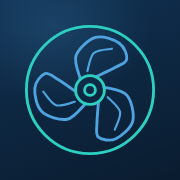
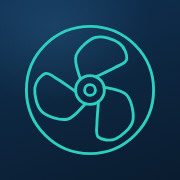
Add files via upload

diff --git a/index.html b/index.html
@@ -487,25 +487,65 @@ footer{background:linear-gradient(180deg,transparent 0,var(--g-bg2) 22px)!import
 @media (prefers-color-scheme:dark){:root:not([data-theme="light"]) .ppwait{background:radial-gradient(70vmax 55vmax at 50% 0%,rgba(79,163,223,.16),transparent 60%),#0E1A26}:root:not([data-theme="light"]) .pw-msg{color:#9DB6C6}}
 :root[data-theme="dark"] .ppwait{background:radial-gradient(70vmax 55vmax at 50% 0%,rgba(79,163,223,.16),transparent 60%),#0E1A26}
 :root[data-theme="dark"] .pw-msg{color:#9DB6C6}
+
+/* ---------- welcome popup (clear, easy to read) ---------- */
+.intro .in2{width:min(420px,100%)!important;padding:26px 22px 20px!important;text-align:center;color:#132232!important;
+  background:linear-gradient(180deg,#FFFFFF,#F3F8FB)!important;border:1px solid rgba(255,255,255,.9);box-shadow:0 30px 70px -20px rgba(0,20,40,.55)!important}
+.in2 .in-prop{width:104px;height:104px;margin:0 auto}
+.in2 .in-prop svg{width:100%;height:100%}
+.in2 .in-prop .pp-rot{transform-box:view-box;transform-origin:50% 50%;animation:ppSpin 2.4s cubic-bezier(.12,.75,.25,1) both}
+.intro:not(.on) .in2 .in-prop .pp-rot{animation:none}
+.in2 h1{margin:12px 0 0!important;font:700 34px/1.05 var(--f-ui)!important;color:#132232}
+.in2 h1 span{color:#006597!important}
+.in2 p{margin:6px 0 0!important;color:#4A6577!important;font-size:15.5px!important}
+.in-list{list-style:none;margin:18px 0 0;padding:0;display:grid;gap:8px;text-align:left}
+.in-list li{display:flex;align-items:center;gap:12px;padding:11px 12px;border-radius:16px;background:#fff;border:1px solid #E1EAF0;box-shadow:0 4px 12px -8px rgba(0,40,80,.25)}
+.in-n{flex:none;width:42px;height:42px;border-radius:13px;display:grid;place-items:center;color:#fff;background:linear-gradient(150deg,#2CCFC0,#1C7DC2)}
+.in-list b{display:block;font:700 15.5px var(--f-ui);color:#132232}
+.in-list small{display:block;margin-top:1px;font-size:13px;line-height:1.3;color:#5E7787}
+.in2 .in-go{margin-top:18px!important;height:54px!important;font-size:17px!important}
+@media (prefers-color-scheme:dark){:root:not([data-theme="light"]) .intro .in2{color:#E9EFF1!important;background:linear-gradient(180deg,#14283B,#0E1C2A)!important;border-color:rgba(255,255,255,.08)}
+  :root:not([data-theme="light"]) .in2 h1{color:#E9EFF1}:root:not([data-theme="light"]) .in2 h1 span{color:#4FA3DF!important}:root:not([data-theme="light"]) .in2 p{color:#9DB6C6!important}
+  :root:not([data-theme="light"]) .in-list li{background:rgba(255,255,255,.05);border-color:rgba(255,255,255,.08)}:root:not([data-theme="light"]) .in-list b{color:#E9EFF1}:root:not([data-theme="light"]) .in-list small{color:#9DB6C6}}
+:root[data-theme="dark"] .intro .in2{color:#E9EFF1!important;background:linear-gradient(180deg,#14283B,#0E1C2A)!important;border-color:rgba(255,255,255,.08)}
+:root[data-theme="dark"] .in2 h1{color:#E9EFF1}:root[data-theme="dark"] .in2 h1 span{color:#4FA3DF!important}:root[data-theme="dark"] .in2 p{color:#9DB6C6!important}
+:root[data-theme="dark"] .in-list li{background:rgba(255,255,255,.05);border-color:rgba(255,255,255,.08)}:root[data-theme="dark"] .in-list b{color:#E9EFF1}:root[data-theme="dark"] .in-list small{color:#9DB6C6}
+
+/* welcome popup: more compact on phones */
+@media (max-width:640px){
+  .intro .in2{width:min(360px,100%)!important;padding:18px 16px 16px!important;border-radius:22px!important}
+  .in2 .in-prop{width:72px;height:72px}
+  .in2 h1{margin-top:8px!important;font-size:26px!important}
+  .in2 p{font-size:13.5px!important;margin-top:4px!important}
+  .in-list{margin-top:12px;gap:6px}
+  .in-list li{padding:8px 10px;gap:10px;border-radius:13px}
+  .in-n{width:34px;height:34px;border-radius:10px}
+  .in-n svg{width:18px;height:18px}
+  .in-list b{font-size:14px}
+  .in-list small{font-size:12px}
+  .in2 .in-go{margin-top:14px!important;height:46px!important;font-size:16px!important;border-radius:13px!important}
+}
+
+.mb-ic svg,.sp-icon svg{color:#2CCFC0!important}
 </style>
 
 <div class="splash" id="splash" aria-hidden="true">
   <div class="sp-in">
-    <div class="sp-icon"><svg xmlns="http://www.w3.org/2000/svg" viewBox="0 0 120 120" fill="none" stroke="#006597" stroke-width="2.4" stroke-linecap="round" stroke-linejoin="round"><g class="pp-rot"><g transform="rotate(0 60 60)"><path d="M52.0 51.1C51.4 47.8 46.3 37.1 48.4 31.3C50.5 25.5 58.6 18.0 64.6 16.2C70.6 14.5 80.0 18.0 84.4 21.0C88.7 24.0 91.2 30.9 90.6 34.3C90.0 37.7 85.1 38.8 80.8 41.3C76.5 43.7 67.5 47.7 64.9 49.0"/><path d="M57.8 44.2C58.7 41.7 59.8 32.3 63.2 29.2C66.7 26.1 75.8 26.2 78.3 25.6" stroke-width="1.8"/></g><g transform="rotate(120 60 60)"><path d="M52.0 51.1C51.4 47.8 46.3 37.1 48.4 31.3C50.5 25.5 58.6 18.0 64.6 16.2C70.6 14.5 80.0 18.0 84.4 21.0C88.7 24.0 91.2 30.9 90.6 34.3C90.0 37.7 85.1 38.8 80.8 41.3C76.5 43.7 67.5 47.7 64.9 49.0"/><path d="M57.8 44.2C58.7 41.7 59.8 32.3 63.2 29.2C66.7 26.1 75.8 26.2 78.3 25.6" stroke-width="1.8"/></g><g transform="rotate(240 60 60)"><path d="M52.0 51.1C51.4 47.8 46.3 37.1 48.4 31.3C50.5 25.5 58.6 18.0 64.6 16.2C70.6 14.5 80.0 18.0 84.4 21.0C88.7 24.0 91.2 30.9 90.6 34.3C90.0 37.7 85.1 38.8 80.8 41.3C76.5 43.7 67.5 47.7 64.9 49.0"/><path d="M57.8 44.2C58.7 41.7 59.8 32.3 63.2 29.2C66.7 26.1 75.8 26.2 78.3 25.6" stroke-width="1.8"/></g> <circle cx="60" cy="60" r="12" stroke="#2CCFC0"/> <circle cx="60" cy="60" r="4.5" stroke="#2CCFC0"/></g><circle cx="60" cy="60" r="53" stroke="#2CCFC0"/></svg></div>
+    <div class="sp-icon"><svg xmlns="http://www.w3.org/2000/svg" viewBox="0 0 120 120" fill="none" stroke="#2CCFC0" stroke-width="2.4" stroke-linecap="round" stroke-linejoin="round"><g class="pp-rot"><g transform="rotate(0 60 60)"><path d="M52.0 51.1C51.4 47.8 46.3 37.1 48.4 31.3C50.5 25.5 58.6 18.0 64.6 16.2C70.6 14.5 80.0 18.0 84.4 21.0C88.7 24.0 91.2 30.9 90.6 34.3C90.0 37.7 85.1 38.8 80.8 41.3C76.5 43.7 67.5 47.7 64.9 49.0"/></g><g transform="rotate(120 60 60)"><path d="M52.0 51.1C51.4 47.8 46.3 37.1 48.4 31.3C50.5 25.5 58.6 18.0 64.6 16.2C70.6 14.5 80.0 18.0 84.4 21.0C88.7 24.0 91.2 30.9 90.6 34.3C90.0 37.7 85.1 38.8 80.8 41.3C76.5 43.7 67.5 47.7 64.9 49.0"/></g><g transform="rotate(240 60 60)"><path d="M52.0 51.1C51.4 47.8 46.3 37.1 48.4 31.3C50.5 25.5 58.6 18.0 64.6 16.2C70.6 14.5 80.0 18.0 84.4 21.0C88.7 24.0 91.2 30.9 90.6 34.3C90.0 37.7 85.1 38.8 80.8 41.3C76.5 43.7 67.5 47.7 64.9 49.0"/></g> <circle cx="60" cy="60" r="12" stroke="#2CCFC0"/> <circle cx="60" cy="60" r="4.5" stroke="#2CCFC0"/></g><circle cx="60" cy="60" r="53" stroke="#2CCFC0"/></svg></div>
     <h1 class="sp-title">Parts <span>Picker</span></h1>
     <div class="sp-by">powered by</div>
     <img class="sp-logo" src="marinics.png" alt="Marinics">
   </div>
 </div>
 <div class="ppwait" id="ppwait" hidden aria-live="polite">
-  <div class="pw-prop" aria-hidden="true"><svg xmlns="http://www.w3.org/2000/svg" viewBox="0 0 120 120" fill="none" stroke="#006597" stroke-width="2.4" stroke-linecap="round" stroke-linejoin="round"><g class="pp-rot"><g transform="rotate(0 60 60)"><path d="M52.0 51.1C51.4 47.8 46.3 37.1 48.4 31.3C50.5 25.5 58.6 18.0 64.6 16.2C70.6 14.5 80.0 18.0 84.4 21.0C88.7 24.0 91.2 30.9 90.6 34.3C90.0 37.7 85.1 38.8 80.8 41.3C76.5 43.7 67.5 47.7 64.9 49.0"/><path d="M57.8 44.2C58.7 41.7 59.8 32.3 63.2 29.2C66.7 26.1 75.8 26.2 78.3 25.6" stroke-width="1.8"/></g><g transform="rotate(120 60 60)"><path d="M52.0 51.1C51.4 47.8 46.3 37.1 48.4 31.3C50.5 25.5 58.6 18.0 64.6 16.2C70.6 14.5 80.0 18.0 84.4 21.0C88.7 24.0 91.2 30.9 90.6 34.3C90.0 37.7 85.1 38.8 80.8 41.3C76.5 43.7 67.5 47.7 64.9 49.0"/><path d="M57.8 44.2C58.7 41.7 59.8 32.3 63.2 29.2C66.7 26.1 75.8 26.2 78.3 25.6" stroke-width="1.8"/></g><g transform="rotate(240 60 60)"><path d="M52.0 51.1C51.4 47.8 46.3 37.1 48.4 31.3C50.5 25.5 58.6 18.0 64.6 16.2C70.6 14.5 80.0 18.0 84.4 21.0C88.7 24.0 91.2 30.9 90.6 34.3C90.0 37.7 85.1 38.8 80.8 41.3C76.5 43.7 67.5 47.7 64.9 49.0"/><path d="M57.8 44.2C58.7 41.7 59.8 32.3 63.2 29.2C66.7 26.1 75.8 26.2 78.3 25.6" stroke-width="1.8"/></g> <circle cx="60" cy="60" r="12" stroke="#2CCFC0"/> <circle cx="60" cy="60" r="4.5" stroke="#2CCFC0"/></g><circle cx="60" cy="60" r="53" stroke="#2CCFC0"/></svg></div>
+  <div class="pw-prop" aria-hidden="true"><svg xmlns="http://www.w3.org/2000/svg" viewBox="0 0 120 120" fill="none" stroke="#2CCFC0" stroke-width="2.4" stroke-linecap="round" stroke-linejoin="round"><g class="pp-rot"><g transform="rotate(0 60 60)"><path d="M52.0 51.1C51.4 47.8 46.3 37.1 48.4 31.3C50.5 25.5 58.6 18.0 64.6 16.2C70.6 14.5 80.0 18.0 84.4 21.0C88.7 24.0 91.2 30.9 90.6 34.3C90.0 37.7 85.1 38.8 80.8 41.3C76.5 43.7 67.5 47.7 64.9 49.0"/></g><g transform="rotate(120 60 60)"><path d="M52.0 51.1C51.4 47.8 46.3 37.1 48.4 31.3C50.5 25.5 58.6 18.0 64.6 16.2C70.6 14.5 80.0 18.0 84.4 21.0C88.7 24.0 91.2 30.9 90.6 34.3C90.0 37.7 85.1 38.8 80.8 41.3C76.5 43.7 67.5 47.7 64.9 49.0"/></g><g transform="rotate(240 60 60)"><path d="M52.0 51.1C51.4 47.8 46.3 37.1 48.4 31.3C50.5 25.5 58.6 18.0 64.6 16.2C70.6 14.5 80.0 18.0 84.4 21.0C88.7 24.0 91.2 30.9 90.6 34.3C90.0 37.7 85.1 38.8 80.8 41.3C76.5 43.7 67.5 47.7 64.9 49.0"/></g> <circle cx="60" cy="60" r="12" stroke="#2CCFC0"/> <circle cx="60" cy="60" r="4.5" stroke="#2CCFC0"/></g><circle cx="60" cy="60" r="53" stroke="#2CCFC0"/></svg></div>
   <div class="pw-msg" id="pw-msg">Loading your engines…</div>
   <div class="pw-by"><span>powered by</span><img src="marinics.png" alt="Marinics"></div>
 </div>
 <!--LOGIN-->
 <section class="signin" id="signin" hidden aria-label="Sign in">
   <div class="si-card">
-    <div class="si-prop" aria-hidden="true"><svg xmlns="http://www.w3.org/2000/svg" viewBox="0 0 120 120" fill="none" stroke="#006597" stroke-width="2.4" stroke-linecap="round" stroke-linejoin="round"><g class="pp-rot"><g transform="rotate(0 60 60)"><path d="M52.0 51.1C51.4 47.8 46.3 37.1 48.4 31.3C50.5 25.5 58.6 18.0 64.6 16.2C70.6 14.5 80.0 18.0 84.4 21.0C88.7 24.0 91.2 30.9 90.6 34.3C90.0 37.7 85.1 38.8 80.8 41.3C76.5 43.7 67.5 47.7 64.9 49.0"/><path d="M57.8 44.2C58.7 41.7 59.8 32.3 63.2 29.2C66.7 26.1 75.8 26.2 78.3 25.6" stroke-width="1.8"/></g><g transform="rotate(120 60 60)"><path d="M52.0 51.1C51.4 47.8 46.3 37.1 48.4 31.3C50.5 25.5 58.6 18.0 64.6 16.2C70.6 14.5 80.0 18.0 84.4 21.0C88.7 24.0 91.2 30.9 90.6 34.3C90.0 37.7 85.1 38.8 80.8 41.3C76.5 43.7 67.5 47.7 64.9 49.0"/><path d="M57.8 44.2C58.7 41.7 59.8 32.3 63.2 29.2C66.7 26.1 75.8 26.2 78.3 25.6" stroke-width="1.8"/></g><g transform="rotate(240 60 60)"><path d="M52.0 51.1C51.4 47.8 46.3 37.1 48.4 31.3C50.5 25.5 58.6 18.0 64.6 16.2C70.6 14.5 80.0 18.0 84.4 21.0C88.7 24.0 91.2 30.9 90.6 34.3C90.0 37.7 85.1 38.8 80.8 41.3C76.5 43.7 67.5 47.7 64.9 49.0"/><path d="M57.8 44.2C58.7 41.7 59.8 32.3 63.2 29.2C66.7 26.1 75.8 26.2 78.3 25.6" stroke-width="1.8"/></g> <circle cx="60" cy="60" r="12" stroke="#2CCFC0"/> <circle cx="60" cy="60" r="4.5" stroke="#2CCFC0"/></g><circle cx="60" cy="60" r="53" stroke="#2CCFC0"/></svg></div>
+    <div class="si-prop" aria-hidden="true"><svg xmlns="http://www.w3.org/2000/svg" viewBox="0 0 120 120" fill="none" stroke="#2CCFC0" stroke-width="2.4" stroke-linecap="round" stroke-linejoin="round"><g class="pp-rot"><g transform="rotate(0 60 60)"><path d="M52.0 51.1C51.4 47.8 46.3 37.1 48.4 31.3C50.5 25.5 58.6 18.0 64.6 16.2C70.6 14.5 80.0 18.0 84.4 21.0C88.7 24.0 91.2 30.9 90.6 34.3C90.0 37.7 85.1 38.8 80.8 41.3C76.5 43.7 67.5 47.7 64.9 49.0"/></g><g transform="rotate(120 60 60)"><path d="M52.0 51.1C51.4 47.8 46.3 37.1 48.4 31.3C50.5 25.5 58.6 18.0 64.6 16.2C70.6 14.5 80.0 18.0 84.4 21.0C88.7 24.0 91.2 30.9 90.6 34.3C90.0 37.7 85.1 38.8 80.8 41.3C76.5 43.7 67.5 47.7 64.9 49.0"/></g><g transform="rotate(240 60 60)"><path d="M52.0 51.1C51.4 47.8 46.3 37.1 48.4 31.3C50.5 25.5 58.6 18.0 64.6 16.2C70.6 14.5 80.0 18.0 84.4 21.0C88.7 24.0 91.2 30.9 90.6 34.3C90.0 37.7 85.1 38.8 80.8 41.3C76.5 43.7 67.5 47.7 64.9 49.0"/></g> <circle cx="60" cy="60" r="12" stroke="#2CCFC0"/> <circle cx="60" cy="60" r="4.5" stroke="#2CCFC0"/></g><circle cx="60" cy="60" r="53" stroke="#2CCFC0"/></svg></div>
     <h2>Parts <span>Picker</span></h2>
     <p class="si-sub">Sign in to continue</p>
     <div class="si-setup" id="si-setup" hidden>Sign-in isn't connected yet. Add your Firebase keys to <code>firebase-config.js</code>, following the README.</div>
@@ -530,7 +570,7 @@ footer{background:linear-gradient(180deg,transparent 0,var(--g-bg2) 22px)!import
 </section>
 <!--/LOGIN-->
 <header class="mbar" id="mbar">
-  <a class="mb-home" id="mb-home" href="index.html" aria-label="Home: all brands"><span class="mb-ic"><svg xmlns="http://www.w3.org/2000/svg" viewBox="0 0 120 120" fill="none" stroke="currentColor" stroke-width="2.4" stroke-linecap="round" stroke-linejoin="round" style="color:var(--accent)"><g transform="rotate(0 60 60)"><path d="M52.0 51.1C51.4 47.8 46.3 37.1 48.4 31.3C50.5 25.5 58.6 18.0 64.6 16.2C70.6 14.5 80.0 18.0 84.4 21.0C88.7 24.0 91.2 30.9 90.6 34.3C90.0 37.7 85.1 38.8 80.8 41.3C76.5 43.7 67.5 47.7 64.9 49.0"/><path d="M57.8 44.2C58.7 41.7 59.8 32.3 63.2 29.2C66.7 26.1 75.8 26.2 78.3 25.6" stroke-width="1.8"/></g><g transform="rotate(120 60 60)"><path d="M52.0 51.1C51.4 47.8 46.3 37.1 48.4 31.3C50.5 25.5 58.6 18.0 64.6 16.2C70.6 14.5 80.0 18.0 84.4 21.0C88.7 24.0 91.2 30.9 90.6 34.3C90.0 37.7 85.1 38.8 80.8 41.3C76.5 43.7 67.5 47.7 64.9 49.0"/><path d="M57.8 44.2C58.7 41.7 59.8 32.3 63.2 29.2C66.7 26.1 75.8 26.2 78.3 25.6" stroke-width="1.8"/></g><g transform="rotate(240 60 60)"><path d="M52.0 51.1C51.4 47.8 46.3 37.1 48.4 31.3C50.5 25.5 58.6 18.0 64.6 16.2C70.6 14.5 80.0 18.0 84.4 21.0C88.7 24.0 91.2 30.9 90.6 34.3C90.0 37.7 85.1 38.8 80.8 41.3C76.5 43.7 67.5 47.7 64.9 49.0"/><path d="M57.8 44.2C58.7 41.7 59.8 32.3 63.2 29.2C66.7 26.1 75.8 26.2 78.3 25.6" stroke-width="1.8"/></g> <circle cx="60" cy="60" r="12" stroke="#2CCFC0"/> <circle cx="60" cy="60" r="4.5" stroke="#2CCFC0"/> <circle cx="60" cy="60" r="53" stroke="#2CCFC0"/></svg></span></a><div class="mb-t"><a class="mb-home" href="index.html" data-home><b>Parts <span>Picker</span></b></a><div class="subnote" id="subnote" hidden></div></div>
+  <a class="mb-home" id="mb-home" href="index.html" aria-label="Home: all brands"><span class="mb-ic"><svg xmlns="http://www.w3.org/2000/svg" viewBox="0 0 120 120" fill="none" stroke="currentColor" stroke-width="2.4" stroke-linecap="round" stroke-linejoin="round" style="color:#2CCFC0"><g transform="rotate(0 60 60)"><path d="M52.0 51.1C51.4 47.8 46.3 37.1 48.4 31.3C50.5 25.5 58.6 18.0 64.6 16.2C70.6 14.5 80.0 18.0 84.4 21.0C88.7 24.0 91.2 30.9 90.6 34.3C90.0 37.7 85.1 38.8 80.8 41.3C76.5 43.7 67.5 47.7 64.9 49.0"/></g><g transform="rotate(120 60 60)"><path d="M52.0 51.1C51.4 47.8 46.3 37.1 48.4 31.3C50.5 25.5 58.6 18.0 64.6 16.2C70.6 14.5 80.0 18.0 84.4 21.0C88.7 24.0 91.2 30.9 90.6 34.3C90.0 37.7 85.1 38.8 80.8 41.3C76.5 43.7 67.5 47.7 64.9 49.0"/></g><g transform="rotate(240 60 60)"><path d="M52.0 51.1C51.4 47.8 46.3 37.1 48.4 31.3C50.5 25.5 58.6 18.0 64.6 16.2C70.6 14.5 80.0 18.0 84.4 21.0C88.7 24.0 91.2 30.9 90.6 34.3C90.0 37.7 85.1 38.8 80.8 41.3C76.5 43.7 67.5 47.7 64.9 49.0"/></g> <circle cx="60" cy="60" r="12" stroke="#2CCFC0"/> <circle cx="60" cy="60" r="4.5" stroke="#2CCFC0"/> <circle cx="60" cy="60" r="53" stroke="#2CCFC0"/></svg></span></a><div class="mb-t"><a class="mb-home" href="index.html" data-home><b>Parts <span>Picker</span></b></a><div class="subnote" id="subnote" hidden></div></div>
   <button class="mb-btn" id="mb-btn" type="button" aria-label="Menu" aria-expanded="false" aria-controls="mmenu"><svg width="22" height="22" viewBox="0 0 24 24" fill="none" stroke="currentColor" stroke-width="2.4" stroke-linecap="round"><path d="M4 7h16M4 12h16M4 17h16"/></svg></button>
   <div class="mmenu" id="mmenu" hidden>
     <div class="mm-who" id="mm-who"></div>
@@ -539,11 +579,15 @@ footer{background:linear-gradient(180deg,transparent 0,var(--g-bg2) 22px)!import
   </div>
 </header>
 <div class="intro" id="intro" hidden role="dialog" aria-label="Welcome">
-  <div class="in-card">
-    <div class="in-ic"><svg xmlns="http://www.w3.org/2000/svg" viewBox="0 0 120 120" fill="none" stroke="currentColor" stroke-width="2.4" stroke-linecap="round" stroke-linejoin="round" style="color:var(--accent)"><g transform="rotate(0 60 60)"><path d="M52.0 51.1C51.4 47.8 46.3 37.1 48.4 31.3C50.5 25.5 58.6 18.0 64.6 16.2C70.6 14.5 80.0 18.0 84.4 21.0C88.7 24.0 91.2 30.9 90.6 34.3C90.0 37.7 85.1 38.8 80.8 41.3C76.5 43.7 67.5 47.7 64.9 49.0"/><path d="M57.8 44.2C58.7 41.7 59.8 32.3 63.2 29.2C66.7 26.1 75.8 26.2 78.3 25.6" stroke-width="1.8"/></g><g transform="rotate(120 60 60)"><path d="M52.0 51.1C51.4 47.8 46.3 37.1 48.4 31.3C50.5 25.5 58.6 18.0 64.6 16.2C70.6 14.5 80.0 18.0 84.4 21.0C88.7 24.0 91.2 30.9 90.6 34.3C90.0 37.7 85.1 38.8 80.8 41.3C76.5 43.7 67.5 47.7 64.9 49.0"/><path d="M57.8 44.2C58.7 41.7 59.8 32.3 63.2 29.2C66.7 26.1 75.8 26.2 78.3 25.6" stroke-width="1.8"/></g><g transform="rotate(240 60 60)"><path d="M52.0 51.1C51.4 47.8 46.3 37.1 48.4 31.3C50.5 25.5 58.6 18.0 64.6 16.2C70.6 14.5 80.0 18.0 84.4 21.0C88.7 24.0 91.2 30.9 90.6 34.3C90.0 37.7 85.1 38.8 80.8 41.3C76.5 43.7 67.5 47.7 64.9 49.0"/><path d="M57.8 44.2C58.7 41.7 59.8 32.3 63.2 29.2C66.7 26.1 75.8 26.2 78.3 25.6" stroke-width="1.8"/></g> <circle cx="60" cy="60" r="12" stroke="#2CCFC0"/> <circle cx="60" cy="60" r="4.5" stroke="#2CCFC0"/> <circle cx="60" cy="60" r="53" stroke="#2CCFC0"/></svg></div>
+  <div class="in-card in2">
+    <div class="in-prop" aria-hidden="true"><svg xmlns="http://www.w3.org/2000/svg" viewBox="0 0 120 120" fill="none" stroke="#2CCFC0" stroke-width="2.4" stroke-linecap="round" stroke-linejoin="round"><g class="pp-rot"><g transform="rotate(0 60 60)"><path d="M52.0 51.1C51.4 47.8 46.3 37.1 48.4 31.3C50.5 25.5 58.6 18.0 64.6 16.2C70.6 14.5 80.0 18.0 84.4 21.0C88.7 24.0 91.2 30.9 90.6 34.3C90.0 37.7 85.1 38.8 80.8 41.3C76.5 43.7 67.5 47.7 64.9 49.0"/></g><g transform="rotate(120 60 60)"><path d="M52.0 51.1C51.4 47.8 46.3 37.1 48.4 31.3C50.5 25.5 58.6 18.0 64.6 16.2C70.6 14.5 80.0 18.0 84.4 21.0C88.7 24.0 91.2 30.9 90.6 34.3C90.0 37.7 85.1 38.8 80.8 41.3C76.5 43.7 67.5 47.7 64.9 49.0"/></g><g transform="rotate(240 60 60)"><path d="M52.0 51.1C51.4 47.8 46.3 37.1 48.4 31.3C50.5 25.5 58.6 18.0 64.6 16.2C70.6 14.5 80.0 18.0 84.4 21.0C88.7 24.0 91.2 30.9 90.6 34.3C90.0 37.7 85.1 38.8 80.8 41.3C76.5 43.7 67.5 47.7 64.9 49.0"/></g> <circle cx="60" cy="60" r="12" stroke="#2CCFC0"/> <circle cx="60" cy="60" r="4.5" stroke="#2CCFC0"/></g><circle cx="60" cy="60" r="53" stroke="#2CCFC0"/></svg></div>
     <h1>Parts <span>Picker</span></h1>
-    <p>Pick parts straight from the exploded drawings. Tap a number, set the quantity, and download your list as an image or Excel file.</p>
-    <div class="in-steps"><span><i>1</i>Choose engine</span><span><i>2</i>Tap numbers</span><span><i>3</i>Download list</span></div>
+    <p>Pick parts straight from the exploded drawings.</p>
+    <ol class="in-list">
+      <li><span class="in-n"><svg width="22" height="22" viewBox="0 0 24 24" fill="none" stroke="currentColor" stroke-width="2.2" stroke-linecap="round" stroke-linejoin="round"><path d="M4 7h16M4 12h16M4 17h10"/></svg></span><span><b>Choose an engine</b><small>Open a brand, then the HP folder and model</small></span></li>
+      <li><span class="in-n"><svg width="22" height="22" viewBox="0 0 24 24" fill="none" stroke="currentColor" stroke-width="2.2" stroke-linecap="round" stroke-linejoin="round"><circle cx="12" cy="12" r="8"/><path d="M12 8v8M8 12h8"/></svg></span><span><b>Tap the numbers</b><small>Each circled number adds that part to your list</small></span></li>
+      <li><span class="in-n"><svg width="22" height="22" viewBox="0 0 24 24" fill="none" stroke="currentColor" stroke-width="2.2" stroke-linecap="round" stroke-linejoin="round"><path d="M12 4v11M7 10l5 5 5-5M5 20h14"/></svg></span><span><b>Download your list</b><small>Save it as an image or an Excel file</small></span></li>
+    </ol>
     <button class="in-go" id="in-go" type="button">Continue <svg width="18" height="18" viewBox="0 0 24 24" fill="none" stroke="currentColor" stroke-width="2.4" stroke-linecap="round" stroke-linejoin="round"><path d="M5 12h14M13 6l6 6-6 6"/></svg></button>
   </div>
 </div>
@@ -560,7 +604,7 @@ footer{background:linear-gradient(180deg,transparent 0,var(--g-bg2) 22px)!import
 <header class="hero">
   <!--USERBAR--><div class="userbar" id="userbar" hidden><span id="useremail"></span><button id="ub-set" type="button" onclick="openSettings()">Settings</button><button id="signout" type="button">Sign out</button></div><!--/USERBAR-->
   <div class="wrap">
-    <div class="logo" aria-hidden="true"><svg xmlns="http://www.w3.org/2000/svg" viewBox="0 0 120 120" fill="none" stroke="currentColor" stroke-width="2.4" stroke-linecap="round" stroke-linejoin="round" style="color:var(--accent)"><g transform="rotate(0 60 60)"><path class="draw" d="M52.0 51.1C51.4 47.8 46.3 37.1 48.4 31.3C50.5 25.5 58.6 18.0 64.6 16.2C70.6 14.5 80.0 18.0 84.4 21.0C88.7 24.0 91.2 30.9 90.6 34.3C90.0 37.7 85.1 38.8 80.8 41.3C76.5 43.7 67.5 47.7 64.9 49.0"/><path class="draw" d="M57.8 44.2C58.7 41.7 59.8 32.3 63.2 29.2C66.7 26.1 75.8 26.2 78.3 25.6" stroke-width="1.8"/></g><g transform="rotate(120 60 60)"><path class="draw" d="M52.0 51.1C51.4 47.8 46.3 37.1 48.4 31.3C50.5 25.5 58.6 18.0 64.6 16.2C70.6 14.5 80.0 18.0 84.4 21.0C88.7 24.0 91.2 30.9 90.6 34.3C90.0 37.7 85.1 38.8 80.8 41.3C76.5 43.7 67.5 47.7 64.9 49.0"/><path class="draw" d="M57.8 44.2C58.7 41.7 59.8 32.3 63.2 29.2C66.7 26.1 75.8 26.2 78.3 25.6" stroke-width="1.8"/></g><g transform="rotate(240 60 60)"><path class="draw" d="M52.0 51.1C51.4 47.8 46.3 37.1 48.4 31.3C50.5 25.5 58.6 18.0 64.6 16.2C70.6 14.5 80.0 18.0 84.4 21.0C88.7 24.0 91.2 30.9 90.6 34.3C90.0 37.7 85.1 38.8 80.8 41.3C76.5 43.7 67.5 47.7 64.9 49.0"/><path class="draw" d="M57.8 44.2C58.7 41.7 59.8 32.3 63.2 29.2C66.7 26.1 75.8 26.2 78.3 25.6" stroke-width="1.8"/></g> <circle class="draw" cx="60" cy="60" r="12" stroke="#2CCFC0"/> <circle class="draw" cx="60" cy="60" r="4.5" stroke="#2CCFC0"/> <circle class="draw" cx="60" cy="60" r="53" stroke="#2CCFC0"/></svg></div>
+    <div class="logo" aria-hidden="true"><svg xmlns="http://www.w3.org/2000/svg" viewBox="0 0 120 120" fill="none" stroke="currentColor" stroke-width="2.4" stroke-linecap="round" stroke-linejoin="round" style="color:#2CCFC0"><g transform="rotate(0 60 60)"><path class="draw" d="M52.0 51.1C51.4 47.8 46.3 37.1 48.4 31.3C50.5 25.5 58.6 18.0 64.6 16.2C70.6 14.5 80.0 18.0 84.4 21.0C88.7 24.0 91.2 30.9 90.6 34.3C90.0 37.7 85.1 38.8 80.8 41.3C76.5 43.7 67.5 47.7 64.9 49.0"/></g><g transform="rotate(120 60 60)"><path class="draw" d="M52.0 51.1C51.4 47.8 46.3 37.1 48.4 31.3C50.5 25.5 58.6 18.0 64.6 16.2C70.6 14.5 80.0 18.0 84.4 21.0C88.7 24.0 91.2 30.9 90.6 34.3C90.0 37.7 85.1 38.8 80.8 41.3C76.5 43.7 67.5 47.7 64.9 49.0"/></g><g transform="rotate(240 60 60)"><path class="draw" d="M52.0 51.1C51.4 47.8 46.3 37.1 48.4 31.3C50.5 25.5 58.6 18.0 64.6 16.2C70.6 14.5 80.0 18.0 84.4 21.0C88.7 24.0 91.2 30.9 90.6 34.3C90.0 37.7 85.1 38.8 80.8 41.3C76.5 43.7 67.5 47.7 64.9 49.0"/></g> <circle class="draw" cx="60" cy="60" r="12" stroke="#2CCFC0"/> <circle class="draw" cx="60" cy="60" r="4.5" stroke="#2CCFC0"/> <circle class="draw" cx="60" cy="60" r="53" stroke="#2CCFC0"/></svg></div>
     <div>
       <h1>Parts <span>Picker</span></h1>
       <p>Pick parts straight from the exploded drawings. Tap a number, set the quantity, and download your list as an image or Excel file.</p>
@@ -584,7 +628,7 @@ const MODELS = [
   { id: 'f300det', hp: '300 HP · 2025', name: 'F300DET / FL300DET', codes: '6JD7 · 6JE7', catalog: '1Z6JD-200SA',
     figs: 53, parts: 1474, listKey: 'f300det-parts-list-v1', href: 'f300det/index.html' },
 ];
-const ICON = `<svg xmlns="http://www.w3.org/2000/svg" viewBox="0 0 120 120" fill="none" stroke="currentColor" stroke-width="2.4" stroke-linecap="round" stroke-linejoin="round" style="color:var(--accent)"><g transform="rotate(0 60 60)"><path d="M52.0 51.1C51.4 47.8 46.3 37.1 48.4 31.3C50.5 25.5 58.6 18.0 64.6 16.2C70.6 14.5 80.0 18.0 84.4 21.0C88.7 24.0 91.2 30.9 90.6 34.3C90.0 37.7 85.1 38.8 80.8 41.3C76.5 43.7 67.5 47.7 64.9 49.0"/><path d="M57.8 44.2C58.7 41.7 59.8 32.3 63.2 29.2C66.7 26.1 75.8 26.2 78.3 25.6" stroke-width="1.8"/></g><g transform="rotate(120 60 60)"><path d="M52.0 51.1C51.4 47.8 46.3 37.1 48.4 31.3C50.5 25.5 58.6 18.0 64.6 16.2C70.6 14.5 80.0 18.0 84.4 21.0C88.7 24.0 91.2 30.9 90.6 34.3C90.0 37.7 85.1 38.8 80.8 41.3C76.5 43.7 67.5 47.7 64.9 49.0"/><path d="M57.8 44.2C58.7 41.7 59.8 32.3 63.2 29.2C66.7 26.1 75.8 26.2 78.3 25.6" stroke-width="1.8"/></g><g transform="rotate(240 60 60)"><path d="M52.0 51.1C51.4 47.8 46.3 37.1 48.4 31.3C50.5 25.5 58.6 18.0 64.6 16.2C70.6 14.5 80.0 18.0 84.4 21.0C88.7 24.0 91.2 30.9 90.6 34.3C90.0 37.7 85.1 38.8 80.8 41.3C76.5 43.7 67.5 47.7 64.9 49.0"/><path d="M57.8 44.2C58.7 41.7 59.8 32.3 63.2 29.2C66.7 26.1 75.8 26.2 78.3 25.6" stroke-width="1.8"/></g> <circle cx="60" cy="60" r="12" stroke="#2CCFC0"/> <circle cx="60" cy="60" r="4.5" stroke="#2CCFC0"/> <circle cx="60" cy="60" r="53" stroke="#2CCFC0"/></svg>`;
+const ICON = `<svg xmlns="http://www.w3.org/2000/svg" viewBox="0 0 120 120" fill="none" stroke="currentColor" stroke-width="2.4" stroke-linecap="round" stroke-linejoin="round" style="color:#2CCFC0"><g transform="rotate(0 60 60)"><path d="M52.0 51.1C51.4 47.8 46.3 37.1 48.4 31.3C50.5 25.5 58.6 18.0 64.6 16.2C70.6 14.5 80.0 18.0 84.4 21.0C88.7 24.0 91.2 30.9 90.6 34.3C90.0 37.7 85.1 38.8 80.8 41.3C76.5 43.7 67.5 47.7 64.9 49.0"/></g><g transform="rotate(120 60 60)"><path d="M52.0 51.1C51.4 47.8 46.3 37.1 48.4 31.3C50.5 25.5 58.6 18.0 64.6 16.2C70.6 14.5 80.0 18.0 84.4 21.0C88.7 24.0 91.2 30.9 90.6 34.3C90.0 37.7 85.1 38.8 80.8 41.3C76.5 43.7 67.5 47.7 64.9 49.0"/></g><g transform="rotate(240 60 60)"><path d="M52.0 51.1C51.4 47.8 46.3 37.1 48.4 31.3C50.5 25.5 58.6 18.0 64.6 16.2C70.6 14.5 80.0 18.0 84.4 21.0C88.7 24.0 91.2 30.9 90.6 34.3C90.0 37.7 85.1 38.8 80.8 41.3C76.5 43.7 67.5 47.7 64.9 49.0"/></g> <circle cx="60" cy="60" r="12" stroke="#2CCFC0"/> <circle cx="60" cy="60" r="4.5" stroke="#2CCFC0"/> <circle cx="60" cy="60" r="53" stroke="#2CCFC0"/></svg>`;
 const esc = s => String(s).replace(/[&<>"]/g, c => ({'&':'&amp;','<':'&lt;','>':'&gt;','"':'&quot;'}[c]));
 // One shared list for all engines; each card counts the parts that came from that engine
 function savedCount(key, id){

diff --git a/picker.html b/picker.html
@@ -652,11 +652,13 @@ html,body{overscroll-behavior:none}
 @media (max-width:760px){ #mbtn{width:38px;height:38px;flex:none} }
 
 .top .mark,.top .mark svg{color:#4FA3DF!important}
+
+.top .mark,.top .mark svg{color:#2CCFC0!important}
 </style>
 
 <div class="app mini" id="app">
   <header class="top">
-    <a class="brand" href="index.html" id="home" aria-label="All engine models"><svg class="back" width="18" height="18" viewBox="0 0 24 24" fill="none" stroke="currentColor" stroke-width="2.4" stroke-linecap="round" stroke-linejoin="round"><path d="M15 5l-7 7 7 7"/></svg><span class="mark"><svg xmlns="http://www.w3.org/2000/svg" viewBox="0 0 120 120" fill="none" stroke="currentColor" stroke-width="2.4" stroke-linecap="round" stroke-linejoin="round" ><g transform="rotate(0 60 60)"><path d="M52.0 51.1C51.4 47.8 46.3 37.1 48.4 31.3C50.5 25.5 58.6 18.0 64.6 16.2C70.6 14.5 80.0 18.0 84.4 21.0C88.7 24.0 91.2 30.9 90.6 34.3C90.0 37.7 85.1 38.8 80.8 41.3C76.5 43.7 67.5 47.7 64.9 49.0"/><path d="M57.8 44.2C58.7 41.7 59.8 32.3 63.2 29.2C66.7 26.1 75.8 26.2 78.3 25.6" stroke-width="1.8"/></g><g transform="rotate(120 60 60)"><path d="M52.0 51.1C51.4 47.8 46.3 37.1 48.4 31.3C50.5 25.5 58.6 18.0 64.6 16.2C70.6 14.5 80.0 18.0 84.4 21.0C88.7 24.0 91.2 30.9 90.6 34.3C90.0 37.7 85.1 38.8 80.8 41.3C76.5 43.7 67.5 47.7 64.9 49.0"/><path d="M57.8 44.2C58.7 41.7 59.8 32.3 63.2 29.2C66.7 26.1 75.8 26.2 78.3 25.6" stroke-width="1.8"/></g><g transform="rotate(240 60 60)"><path d="M52.0 51.1C51.4 47.8 46.3 37.1 48.4 31.3C50.5 25.5 58.6 18.0 64.6 16.2C70.6 14.5 80.0 18.0 84.4 21.0C88.7 24.0 91.2 30.9 90.6 34.3C90.0 37.7 85.1 38.8 80.8 41.3C76.5 43.7 67.5 47.7 64.9 49.0"/><path d="M57.8 44.2C58.7 41.7 59.8 32.3 63.2 29.2C66.7 26.1 75.8 26.2 78.3 25.6" stroke-width="1.8"/></g> <circle cx="60" cy="60" r="12" stroke="#2CCFC0"/> <circle cx="60" cy="60" r="4.5" stroke="#2CCFC0"/> <circle cx="60" cy="60" r="53" stroke="#2CCFC0"/></svg></span><div><b>Parts Picker</b><small>F300DET · FL300DET</small></div></a>
+    <a class="brand" href="index.html" id="home" aria-label="All engine models"><svg class="back" width="18" height="18" viewBox="0 0 24 24" fill="none" stroke="currentColor" stroke-width="2.4" stroke-linecap="round" stroke-linejoin="round"><path d="M15 5l-7 7 7 7"/></svg><span class="mark"><svg xmlns="http://www.w3.org/2000/svg" viewBox="0 0 120 120" fill="none" stroke="currentColor" stroke-width="2.4" stroke-linecap="round" stroke-linejoin="round" ><g transform="rotate(0 60 60)"><path d="M52.0 51.1C51.4 47.8 46.3 37.1 48.4 31.3C50.5 25.5 58.6 18.0 64.6 16.2C70.6 14.5 80.0 18.0 84.4 21.0C88.7 24.0 91.2 30.9 90.6 34.3C90.0 37.7 85.1 38.8 80.8 41.3C76.5 43.7 67.5 47.7 64.9 49.0"/></g><g transform="rotate(120 60 60)"><path d="M52.0 51.1C51.4 47.8 46.3 37.1 48.4 31.3C50.5 25.5 58.6 18.0 64.6 16.2C70.6 14.5 80.0 18.0 84.4 21.0C88.7 24.0 91.2 30.9 90.6 34.3C90.0 37.7 85.1 38.8 80.8 41.3C76.5 43.7 67.5 47.7 64.9 49.0"/></g><g transform="rotate(240 60 60)"><path d="M52.0 51.1C51.4 47.8 46.3 37.1 48.4 31.3C50.5 25.5 58.6 18.0 64.6 16.2C70.6 14.5 80.0 18.0 84.4 21.0C88.7 24.0 91.2 30.9 90.6 34.3C90.0 37.7 85.1 38.8 80.8 41.3C76.5 43.7 67.5 47.7 64.9 49.0"/></g> <circle cx="60" cy="60" r="12" stroke="#2CCFC0"/> <circle cx="60" cy="60" r="4.5" stroke="#2CCFC0"/> <circle cx="60" cy="60" r="53" stroke="#2CCFC0"/></svg></span><div><b>Parts Picker</b><small>F300DET · FL300DET</small></div></a>
     <div class="fignav">
       <button class="navbtn" id="prev" aria-label="Previous figure"><svg width="18" height="18" viewBox="0 0 24 24" fill="none" stroke="currentColor" stroke-width="2.4" stroke-linecap="round" stroke-linejoin="round"><path d="M15 5l-7 7 7 7"/></svg></button>
       <button class="navbtn figbtn" id="figbtn" aria-label="Choose figure"><span class="fn" id="bfn"></span><span class="ft" id="bft"></span><span class="of" id="bof"></span><svg width="16" height="16" viewBox="0 0 24 24" fill="none" stroke="currentColor" stroke-width="2.4" stroke-linecap="round" stroke-linejoin="round"><path d="M6 9l6 6 6-6"/></svg></button>
@@ -725,7 +727,7 @@ html,body{overscroll-behavior:none}
 <div id="layer"></div>
 
 <div id="pp-load" style="position:fixed;inset:0;z-index:200;display:flex;flex-direction:column;align-items:center;justify-content:center;gap:18px;padding:24px;text-align:center;background:radial-gradient(70vmax 55vmax at 50% 0%,rgba(0,101,151,.16),transparent 60%),#F7FAFC;color:#132232;font:15px 'IBM Plex Sans Condensed',Arial,sans-serif">
-  <div id="pp-spin" style="width:120px;height:120px"><svg xmlns="http://www.w3.org/2000/svg" viewBox="0 0 120 120" fill="none" stroke="#006597" stroke-width="2.4" stroke-linecap="round" stroke-linejoin="round"><g class="pp-rot"><g transform="rotate(0 60 60)"><path d="M52.0 51.1C51.4 47.8 46.3 37.1 48.4 31.3C50.5 25.5 58.6 18.0 64.6 16.2C70.6 14.5 80.0 18.0 84.4 21.0C88.7 24.0 91.2 30.9 90.6 34.3C90.0 37.7 85.1 38.8 80.8 41.3C76.5 43.7 67.5 47.7 64.9 49.0"/><path d="M57.8 44.2C58.7 41.7 59.8 32.3 63.2 29.2C66.7 26.1 75.8 26.2 78.3 25.6" stroke-width="1.8"/></g><g transform="rotate(120 60 60)"><path d="M52.0 51.1C51.4 47.8 46.3 37.1 48.4 31.3C50.5 25.5 58.6 18.0 64.6 16.2C70.6 14.5 80.0 18.0 84.4 21.0C88.7 24.0 91.2 30.9 90.6 34.3C90.0 37.7 85.1 38.8 80.8 41.3C76.5 43.7 67.5 47.7 64.9 49.0"/><path d="M57.8 44.2C58.7 41.7 59.8 32.3 63.2 29.2C66.7 26.1 75.8 26.2 78.3 25.6" stroke-width="1.8"/></g><g transform="rotate(240 60 60)"><path d="M52.0 51.1C51.4 47.8 46.3 37.1 48.4 31.3C50.5 25.5 58.6 18.0 64.6 16.2C70.6 14.5 80.0 18.0 84.4 21.0C88.7 24.0 91.2 30.9 90.6 34.3C90.0 37.7 85.1 38.8 80.8 41.3C76.5 43.7 67.5 47.7 64.9 49.0"/><path d="M57.8 44.2C58.7 41.7 59.8 32.3 63.2 29.2C66.7 26.1 75.8 26.2 78.3 25.6" stroke-width="1.8"/></g> <circle cx="60" cy="60" r="12" stroke="#2CCFC0"/> <circle cx="60" cy="60" r="4.5" stroke="#2CCFC0"/></g><circle cx="60" cy="60" r="53" stroke="#2CCFC0"/></svg></div>
+  <div id="pp-spin" style="width:120px;height:120px"><svg xmlns="http://www.w3.org/2000/svg" viewBox="0 0 120 120" fill="none" stroke="#2CCFC0" stroke-width="2.4" stroke-linecap="round" stroke-linejoin="round"><g class="pp-rot"><g transform="rotate(0 60 60)"><path d="M52.0 51.1C51.4 47.8 46.3 37.1 48.4 31.3C50.5 25.5 58.6 18.0 64.6 16.2C70.6 14.5 80.0 18.0 84.4 21.0C88.7 24.0 91.2 30.9 90.6 34.3C90.0 37.7 85.1 38.8 80.8 41.3C76.5 43.7 67.5 47.7 64.9 49.0"/></g><g transform="rotate(120 60 60)"><path d="M52.0 51.1C51.4 47.8 46.3 37.1 48.4 31.3C50.5 25.5 58.6 18.0 64.6 16.2C70.6 14.5 80.0 18.0 84.4 21.0C88.7 24.0 91.2 30.9 90.6 34.3C90.0 37.7 85.1 38.8 80.8 41.3C76.5 43.7 67.5 47.7 64.9 49.0"/></g><g transform="rotate(240 60 60)"><path d="M52.0 51.1C51.4 47.8 46.3 37.1 48.4 31.3C50.5 25.5 58.6 18.0 64.6 16.2C70.6 14.5 80.0 18.0 84.4 21.0C88.7 24.0 91.2 30.9 90.6 34.3C90.0 37.7 85.1 38.8 80.8 41.3C76.5 43.7 67.5 47.7 64.9 49.0"/></g> <circle cx="60" cy="60" r="12" stroke="#2CCFC0"/> <circle cx="60" cy="60" r="4.5" stroke="#2CCFC0"/></g><circle cx="60" cy="60" r="53" stroke="#2CCFC0"/></svg></div>
   <div id="pp-load-msg" style="max-width:320px;line-height:1.5;color:#486B7D">Loading drawings…</div>
   <div style="margin-top:14px;font:600 10.5px 'IBM Plex Mono',monospace;letter-spacing:.3em;text-transform:uppercase;color:#58778E">powered by</div>
   <img src="marinics.png" alt="Marinics" style="width:100px;height:auto;margin-top:-10px">
